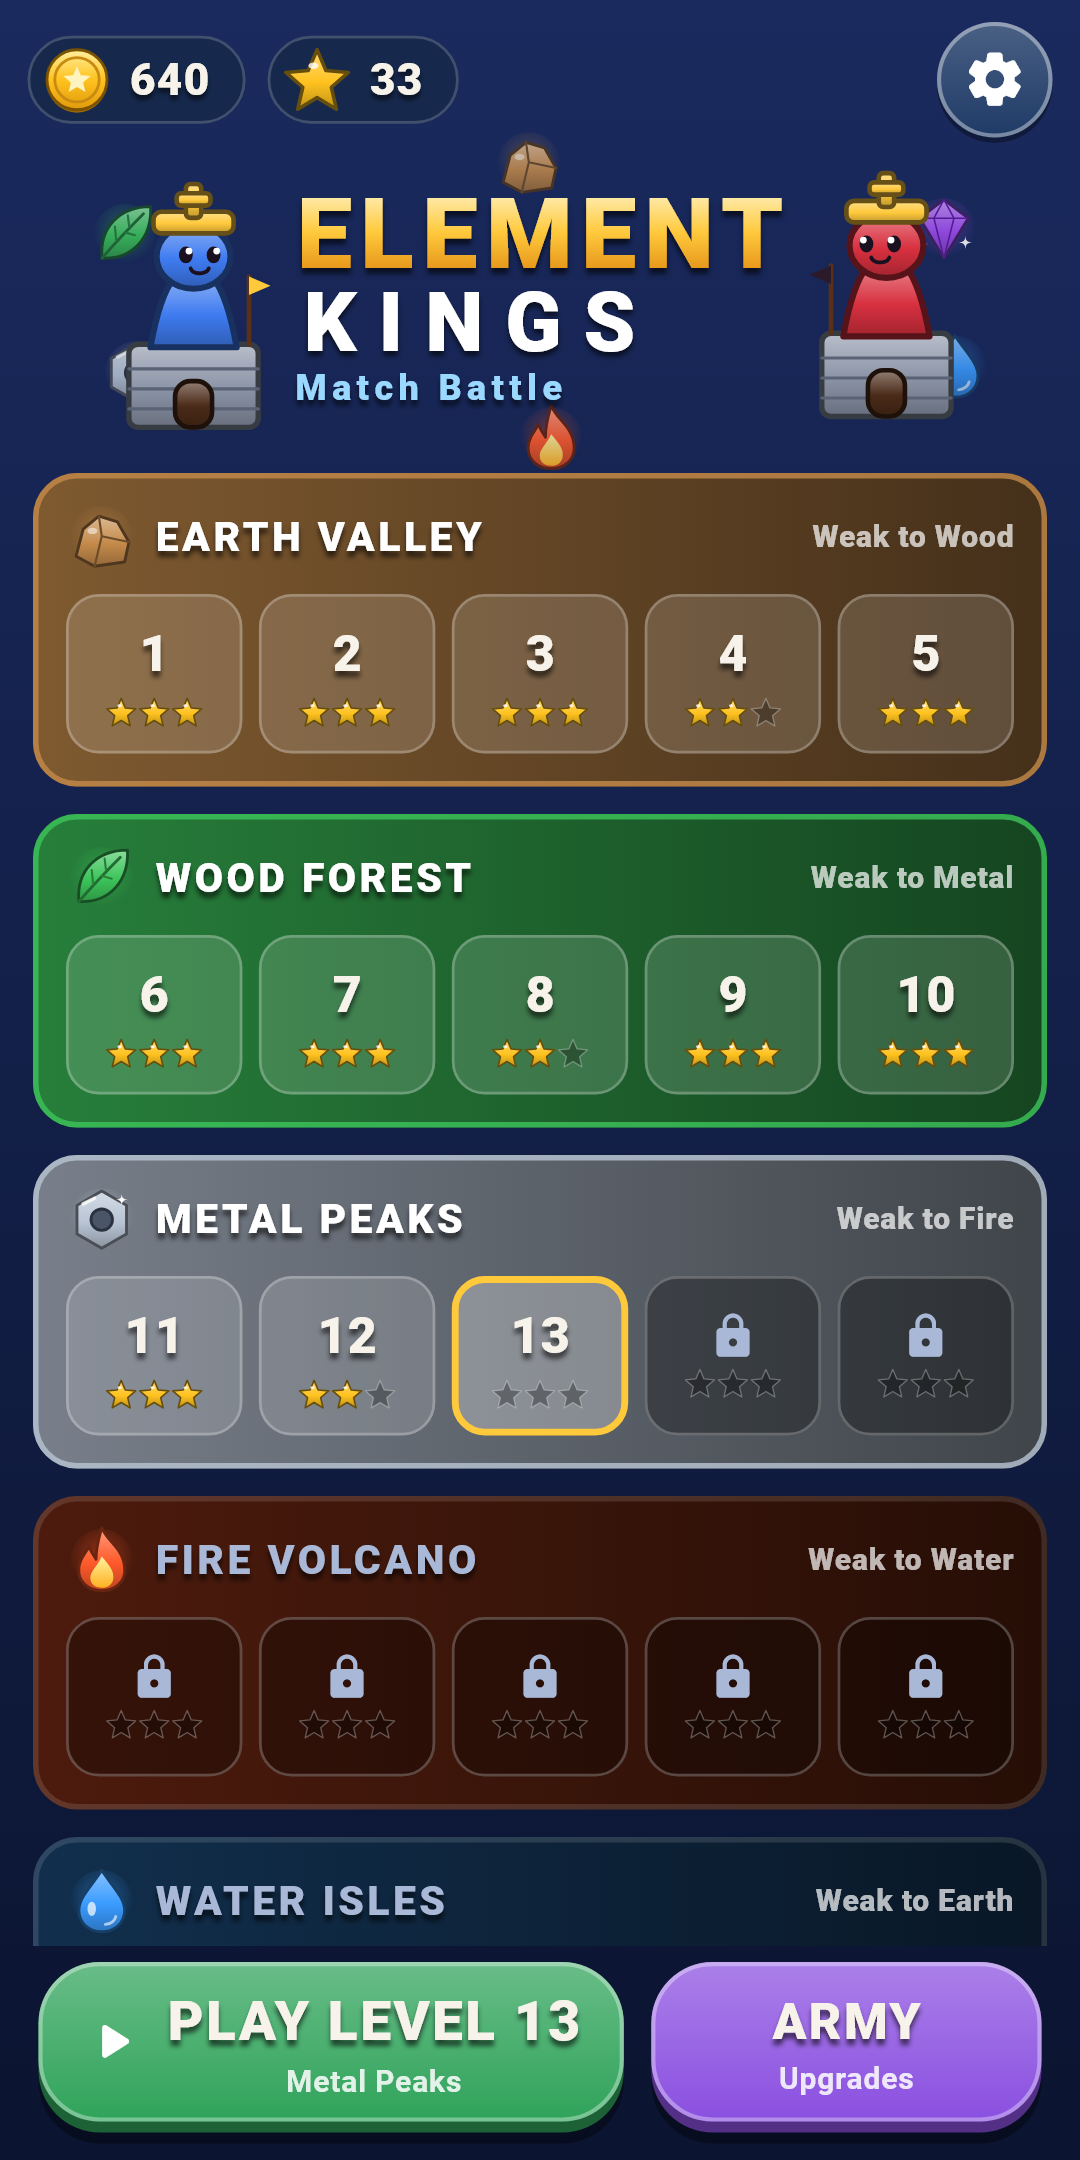
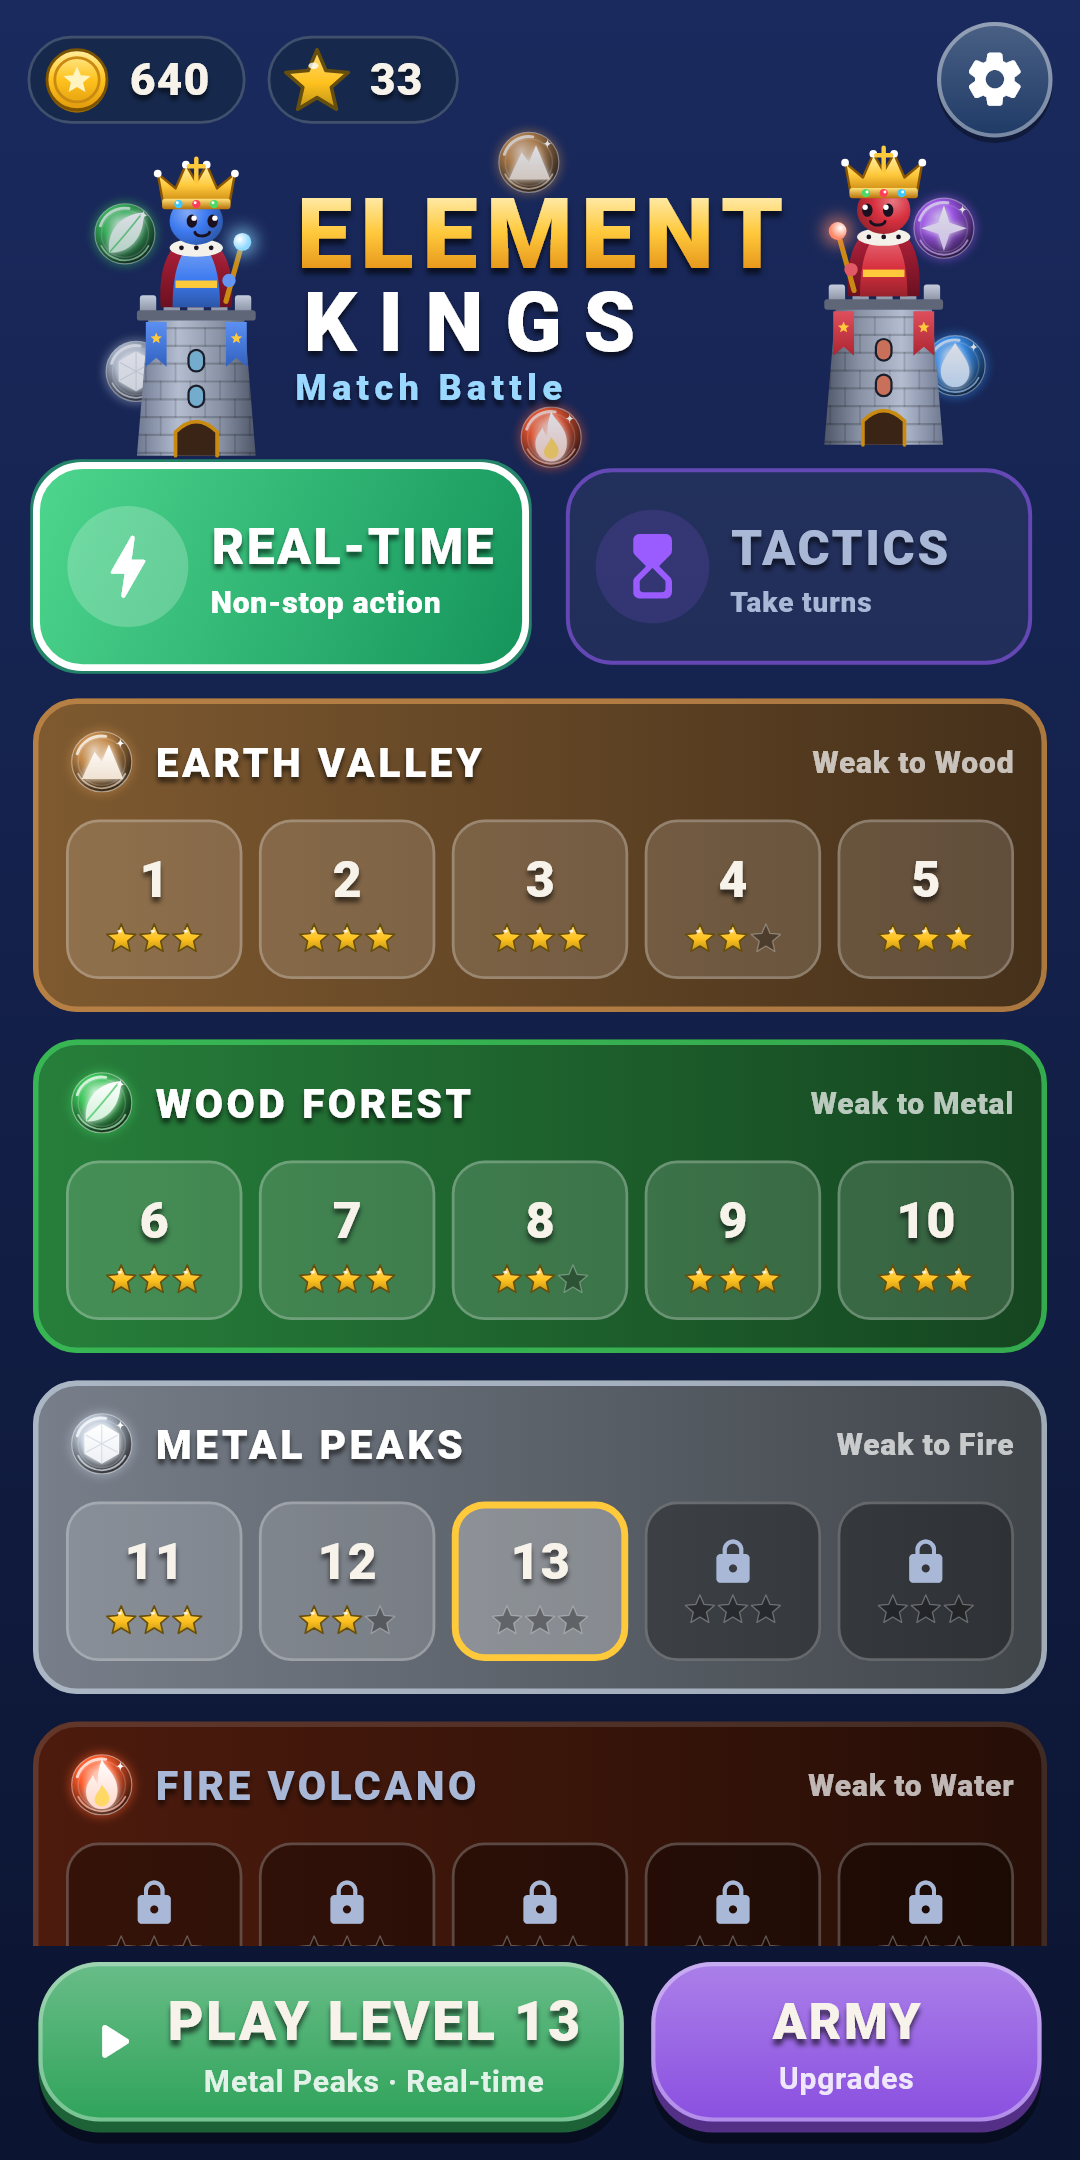
Element Kings 1.2: new art, shared-board Tactics

diff --git a/elementkings/index.html b/elementkings/index.html
@@ -53,7 +53,7 @@
     <div class="card"><div class="emoji">👑</div><h3>Real-time battles</h3>
       <p>The enemy King plays its own board at the same time. Both Kings shoot weakly, but matches fill Royal Energy for Arrow Rain, Royal Shield and Rally.</p></div>
     <div class="card"><div class="emoji">⏳</div><h3>Tactics mode</h3>
-      <p>Prefer to think? Take turns with the enemy King: one move each, then both armies march. A Rook, Knight or Queen earns an extra move. Its own 30-battle campaign.</p></div>
+      <p>Prefer to think? Take turns with the enemy King on one shared board while both armies keep fighting. Match 4, match 5 or an L/T shape to earn an extra move. Its own 30-battle campaign.</p></div>
     <div class="card"><div class="emoji">🗺</div><h3>30 battles, 6 realms</h3>
       <p>From Earth Valley to the Magic Castle. Each realm favours its element, so pick the right counters.</p></div>
     <div class="card"><div class="emoji">⬆</div><h3>Upgrade and play offline</h3>
